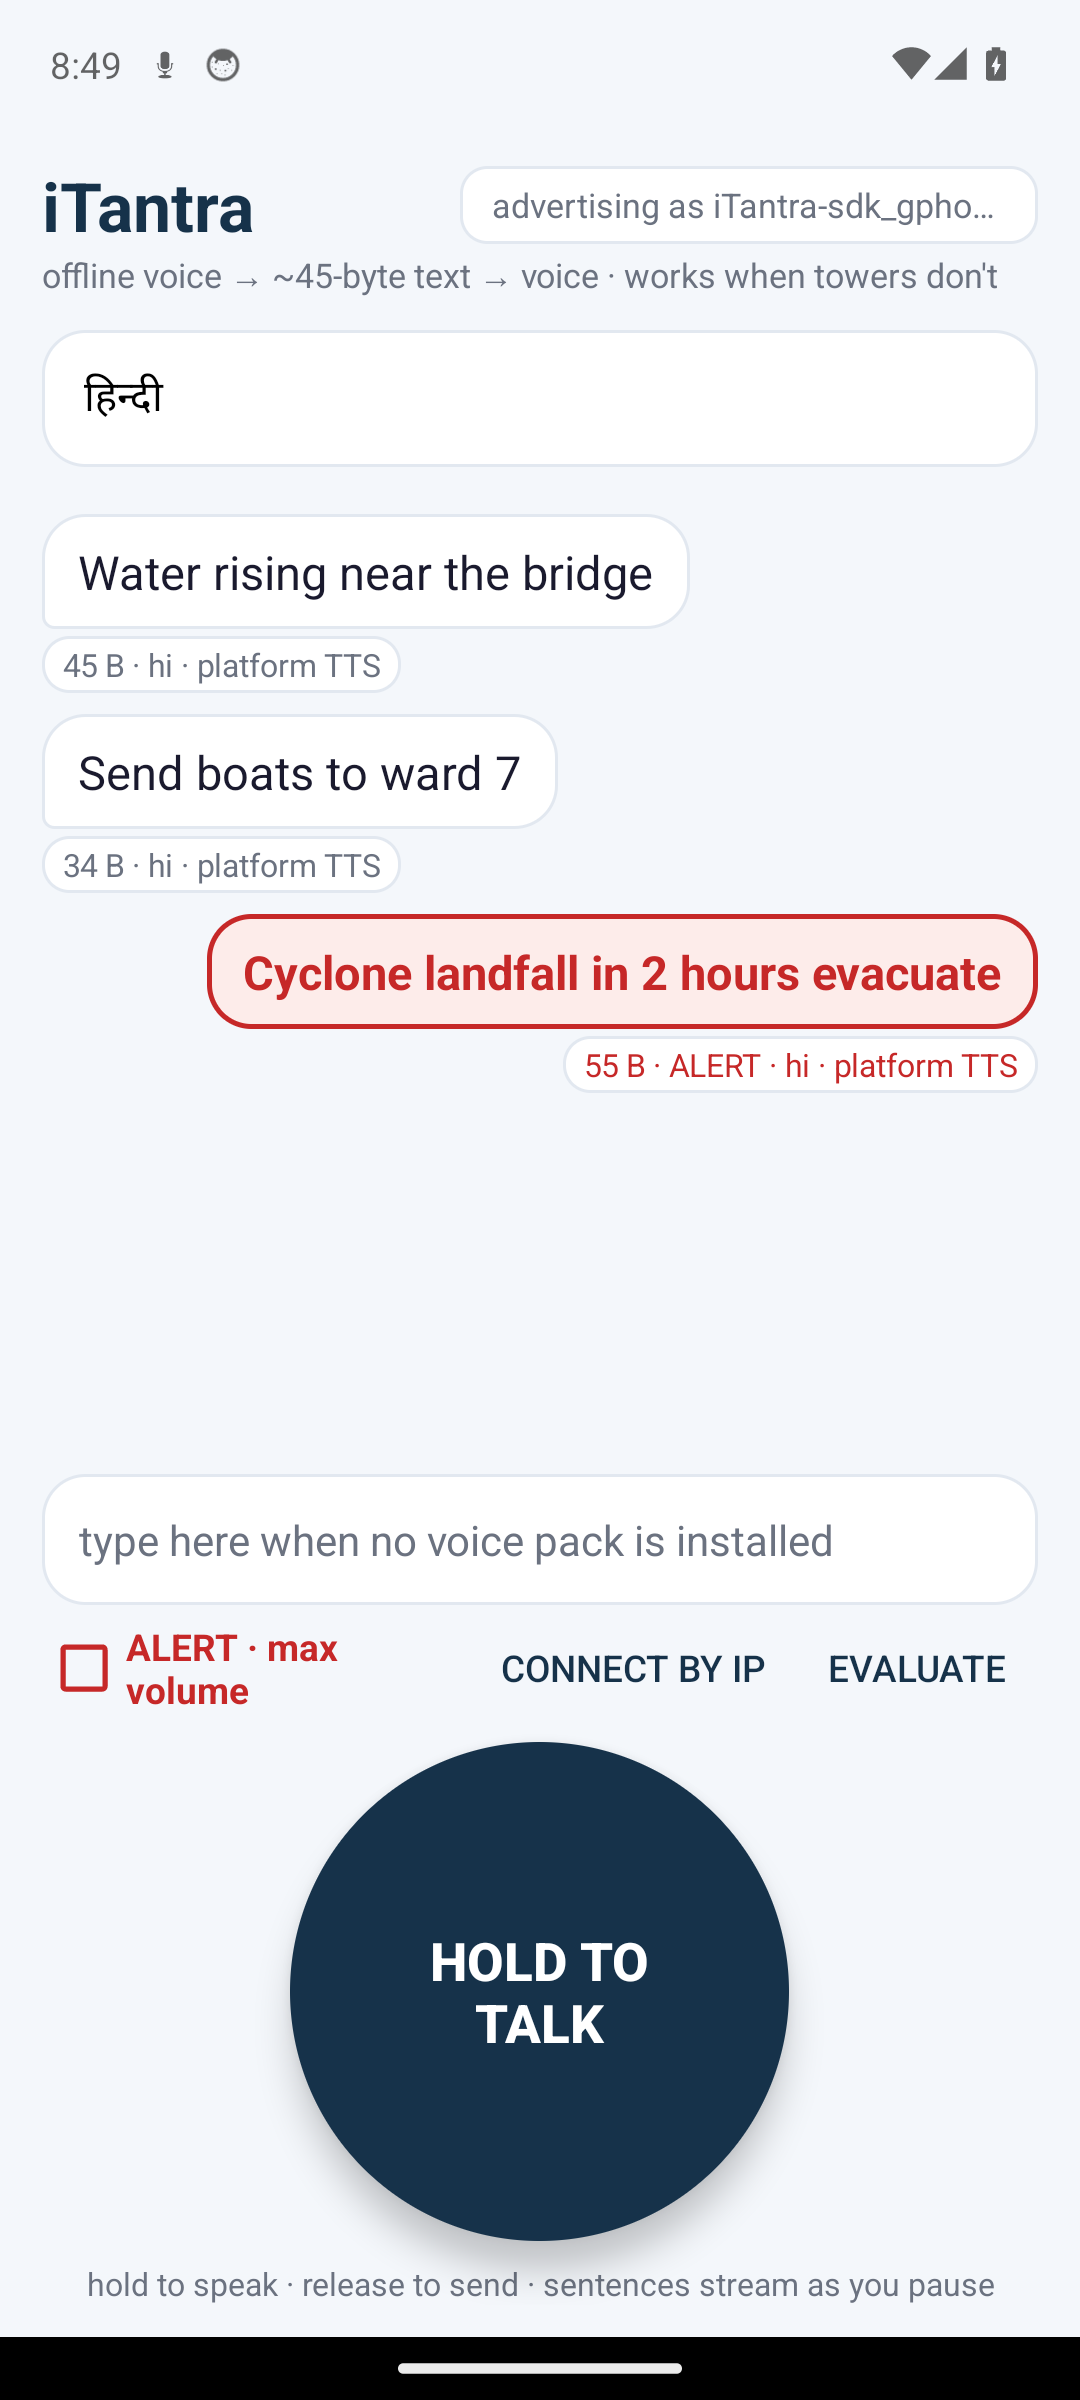
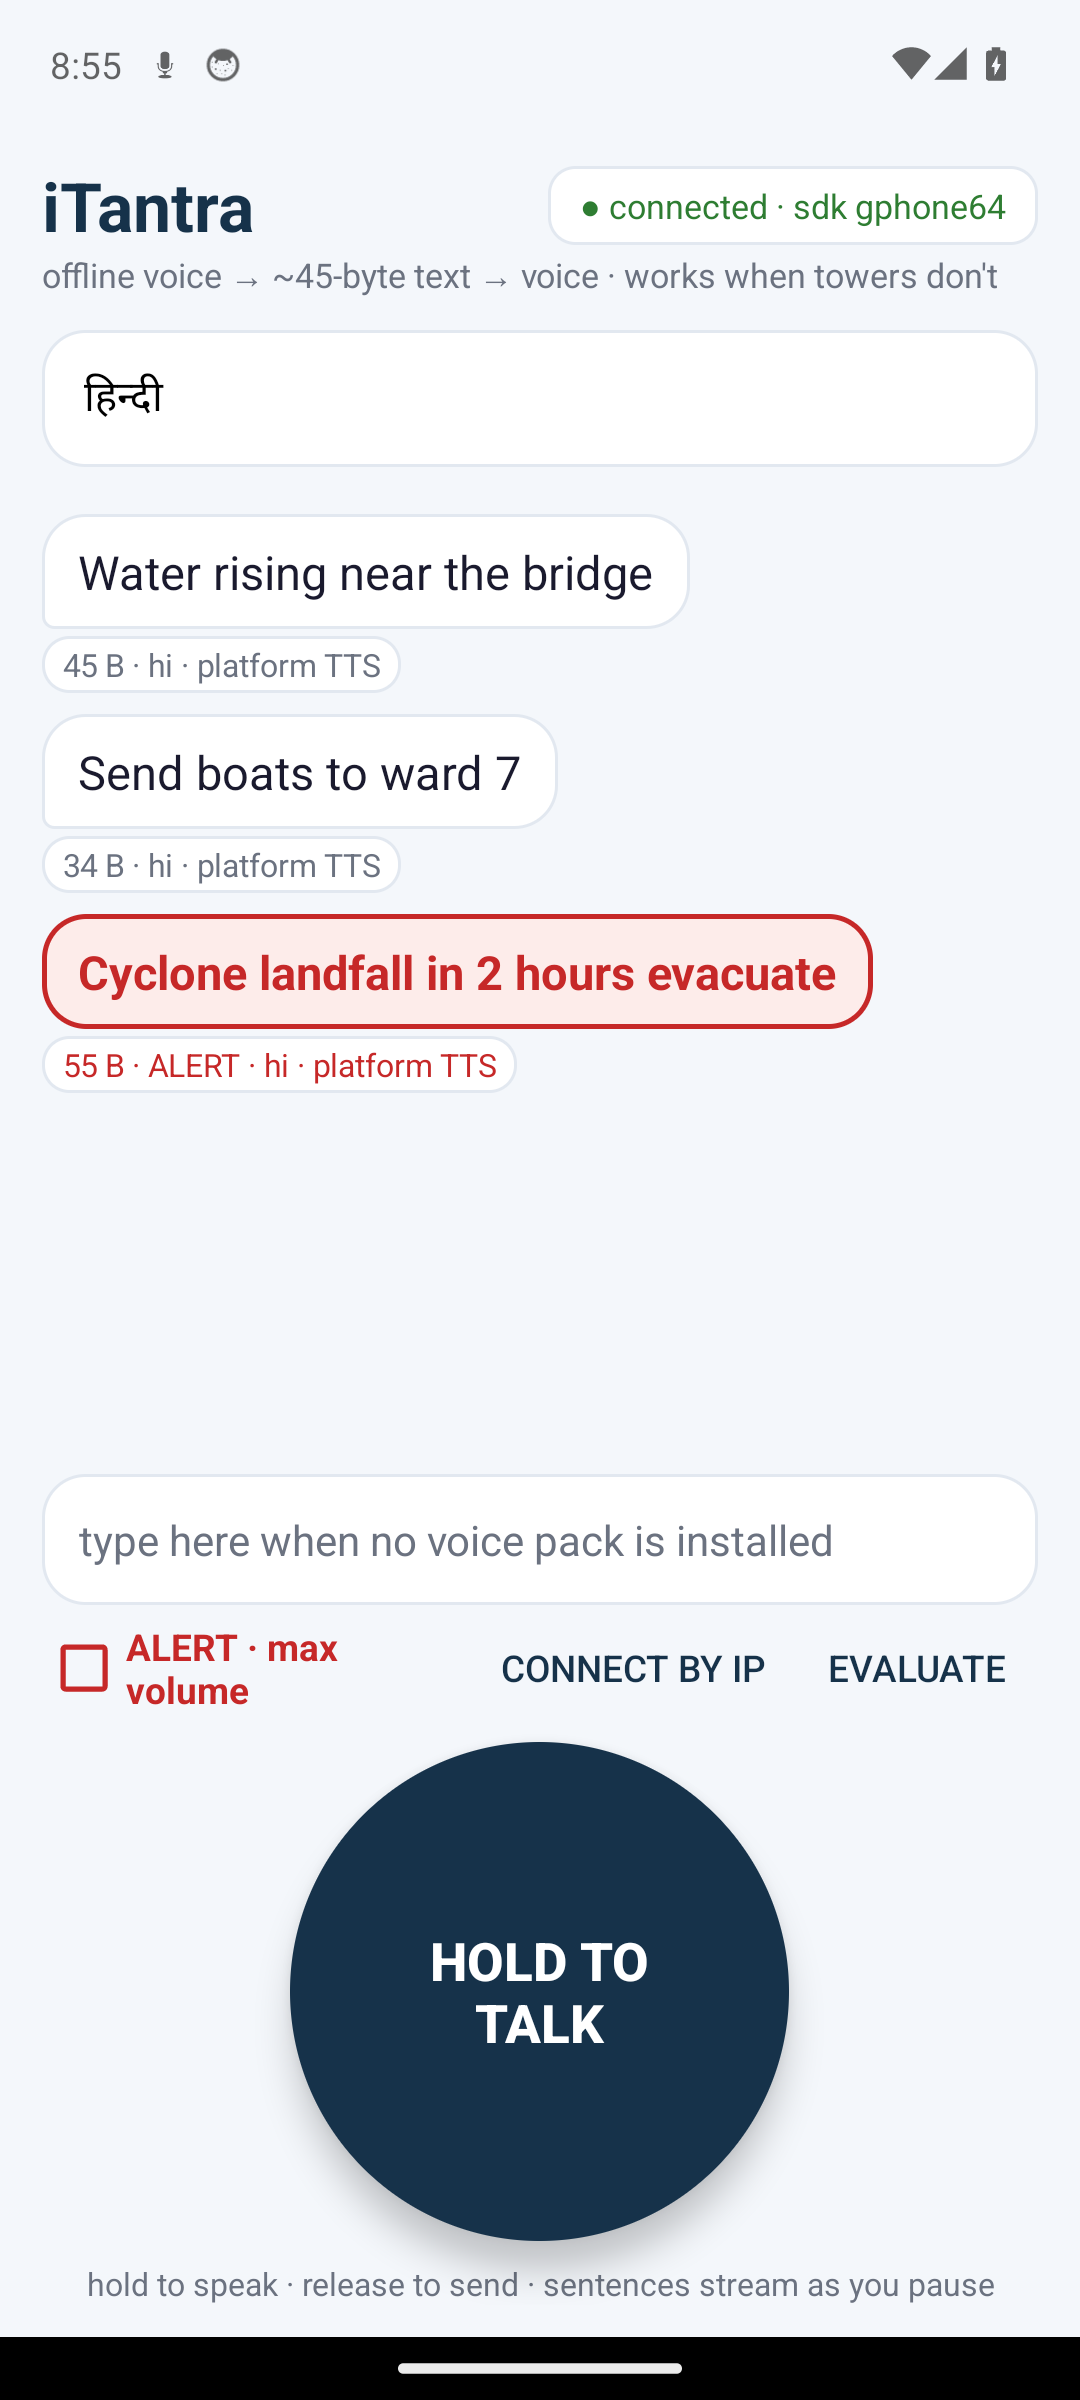
app: final UI round — received ALERT left-aligned (direction not priority), connected chip with short peer label, pack table as rows+chips, idle-efficiency card, one-shot ALERT checkbox; real dark-mode screenshot; emulator-verified

diff --git a/app/src/main/java/com/nullpointers/itantra/MainActivity.kt b/app/src/main/java/com/nullpointers/itantra/MainActivity.kt
@@ -237,6 +237,7 @@ class MainActivity : Activity() {
 
     private fun send(text: String, l: String, sttMs: Long, audioSec: Double, prosody: Int? = null) {
         val prio = if (alertBox.isChecked) Frame.ALERT else Frame.NORMAL
+        alertBox.isChecked = false // one-shot: never let the next casual message inherit max-volume
         val frame = Frame.pack(vc, text, l, prio, seq++, prosody = prosody)
         Thread {
             val n = transports.sumOf { it.send(frame) }
@@ -245,7 +246,7 @@ class MainActivity : Activity() {
                     " · STT ${sttMs} ms" + if (audioSec > 0.05) " · RTF %.2f".format(sttMs / 1000.0 / audioSec) else ""
                 else " · typed"
                 bubble(text, "${frame.size} B" + (if (prio == Frame.ALERT) " · ALERT" else "") + stt +
-                    (if (n == 0) " · no peer" else ""), if (prio == Frame.ALERT) ALERTK else SENT)
+                    (if (n == 0) " · no peer" else ""), prio == Frame.ALERT, incoming = false)
                 setStatus(if (n == 0) getString(R.string.no_peers) else "connected")
             }
         }.start()
@@ -260,7 +261,7 @@ class MainActivity : Activity() {
         }
         val tRecv = SystemClock.elapsedRealtime()
         val msg = try { Frame.unpack(vc, bytes) } catch (e: Exception) {
-            runOnUiThread { bubble("corrupt frame dropped", "${bytes.size} B · CRC/decode failed", RECV) }; return
+            runOnUiThread { bubble("corrupt frame dropped", "${bytes.size} B · CRC/decode failed", alert = false, incoming = true) }; return
         }
         runOnUiThread { speak(msg, bytes.size, tRecv) }
     }
@@ -304,7 +305,7 @@ class MainActivity : Activity() {
             }
             runOnUiThread {
                 bubble(msg.text, "$size B" + (if (alert) " · ALERT" else "") + " · ${msg.lang} · $label",
-                    if (alert) ALERTK else RECV)
+                    alert, incoming = true)
             }
         }.start()
     }
@@ -335,22 +336,42 @@ class MainActivity : Activity() {
         Thread.sleep((samples.size * 1000L / sampleRate) + 100)
     }
 
+    private var peer: String? = null
+
+    /** Chip shows connection state; a live peer is never overwritten by late advertise/discovery events. */
     private fun setStatus(s: String) {
-        val connected = s.startsWith("connected")
-        status.text = when {
-            connected -> "● connected"
-            s.startsWith("advertising") -> getString(R.string.starting)
-            else -> s
+        when {
+            s.startsWith("connected to ") -> peer = shortPeer(s.removePrefix("connected to "))
+            s.startsWith("BT connected: ") -> peer = shortPeer(s.removePrefix("BT connected: "))
+            s.startsWith("peer ") || s.startsWith("BT peer") -> peer = null
         }
-        status.setTextColor(getColor(if (connected) R.color.green else R.color.textSecondary))
+        val link = s.startsWith("connected") || s.startsWith("advertising") || s.startsWith("BT connected") ||
+            s.startsWith("peer ") || s.startsWith("BT peer") || s.startsWith("discovery")
+        val p = peer
+        status.text = when {
+            !link -> s
+            p != null -> "● connected · $p"
+            else -> getString(R.string.starting)
+        }
+        status.setTextColor(getColor(if (link && p != null) R.color.green else R.color.textSecondary))
+    }
+
+    /** "iTantra-sdk_gphone64_arm64-4269" → "sdk gphone64"; "192.168.43.1:47474" → "192.168.43.1". Whole words only. */
+    private fun shortPeer(name: String): String {
+        val n = name.removePrefix("iTantra-")
+        if (n.count { it == '.' } == 3) return n.substringBefore(':')
+        return n.replace('_', ' ').split(' ', '-').filter { it.isNotBlank() && it.toIntOrNull() == null }
+            .take(2).joinToString(" ")
     }
 
     private fun dp(x: Int) = (x * resources.displayMetrics.density).toInt()
 
     /** Chat bubble + muted byte chip — the chip is the on-stage wow moment (45 B per sentence). */
-    private fun bubble(text: String, meta: String, kind: Int) {
+    private fun bubble(text: String, meta: String, alert: Boolean, incoming: Boolean) {
         emptyHint.visibility = View.GONE
-        val side = if (kind == RECV) Gravity.START else Gravity.END
+        // side keys on direction only; ALERT changes colour, never alignment
+        val side = if (incoming) Gravity.START else Gravity.END
+        val kind = if (alert) ALERTK else if (incoming) RECV else SENT
         val col = LinearLayout(this).apply {
             orientation = LinearLayout.VERTICAL
             layoutParams = LinearLayout.LayoutParams(

diff --git a/app/src/main/java/com/nullpointers/itantra/EvalActivity.kt b/app/src/main/java/com/nullpointers/itantra/EvalActivity.kt
@@ -5,9 +5,11 @@ import android.app.Activity
 import android.content.pm.PackageManager
 import android.os.Bundle
 import android.os.SystemClock
+import android.view.Gravity
 import android.view.MotionEvent
 import android.widget.ArrayAdapter
 import android.widget.Button
+import android.widget.LinearLayout
 import android.widget.Spinner
 import android.widget.TextView
 import java.io.File
@@ -130,18 +132,37 @@ class EvalActivity : Activity() {
         }.start()
     }
 
+    /** One row per language: native-script name + STT/TTS status chips. */
     private fun renderPacks() {
-        val sb = StringBuilder()
+        val rows = findViewById<LinearLayout>(R.id.packRows)
+        rows.removeAllViews()
         val base = File(getExternalFilesDir(null), "models")
-        for ((i, l) in VarnaCode.LANGS.withIndex()) {
-            val stt = File(base, "$l/stt/model.onnx")
-            val tts = File(base, "$l/tts/model.onnx")
-            fun mb(f: File) = if (f.exists()) "✓ %.0fMB".format(f.length() / 1e6) else "✗"
-            // Indic glyph widths defeat monospace columns — keep the script name last.
-            sb.append("%-3s stt %-8s tts %-8s %s\n".format(l, mb(stt), mb(tts), langNames[i]))
+        val d = resources.displayMetrics.density
+        val wrap = LinearLayout.LayoutParams.WRAP_CONTENT
+        fun chip(kind: String, f: File) = TextView(this).apply {
+            val ok = f.exists()
+            text = if (ok) "$kind ✓ %.0f MB".format(f.length() / 1e6) else "$kind ✗"
+            textSize = 12f
+            setTextColor(getColor(if (ok) R.color.green else R.color.textSecondary))
+            setBackgroundResource(R.drawable.chip_bg)
+            setPadding((8 * d).toInt(), (3 * d).toInt(), (8 * d).toInt(), (3 * d).toInt())
+            layoutParams = LinearLayout.LayoutParams(wrap, wrap).apply { marginStart = (6 * d).toInt() }
         }
-        sb.append("\n").append(getString(R.string.sideload_hint))
-        packs.text = sb.toString()
+        for ((i, l) in VarnaCode.LANGS.withIndex()) {
+            rows.addView(LinearLayout(this).apply {
+                orientation = LinearLayout.HORIZONTAL
+                gravity = Gravity.CENTER_VERTICAL
+                setPadding(0, (5 * d).toInt(), 0, (5 * d).toInt())
+                addView(TextView(context).apply {
+                    text = langNames[i]; textSize = 16f
+                    setTextColor(getColor(R.color.textPrimary))
+                    layoutParams = LinearLayout.LayoutParams(0, wrap, 1f)
+                })
+                addView(chip("STT", File(base, "$l/stt/model.onnx")))
+                addView(chip("TTS", File(base, "$l/tts/model.onnx")))
+            })
+        }
+        packs.text = getString(R.string.sideload_hint)
     }
 
     // ponytail: HZ=100 assumed (standard on Android kernels); calibrate if a device disagrees.
